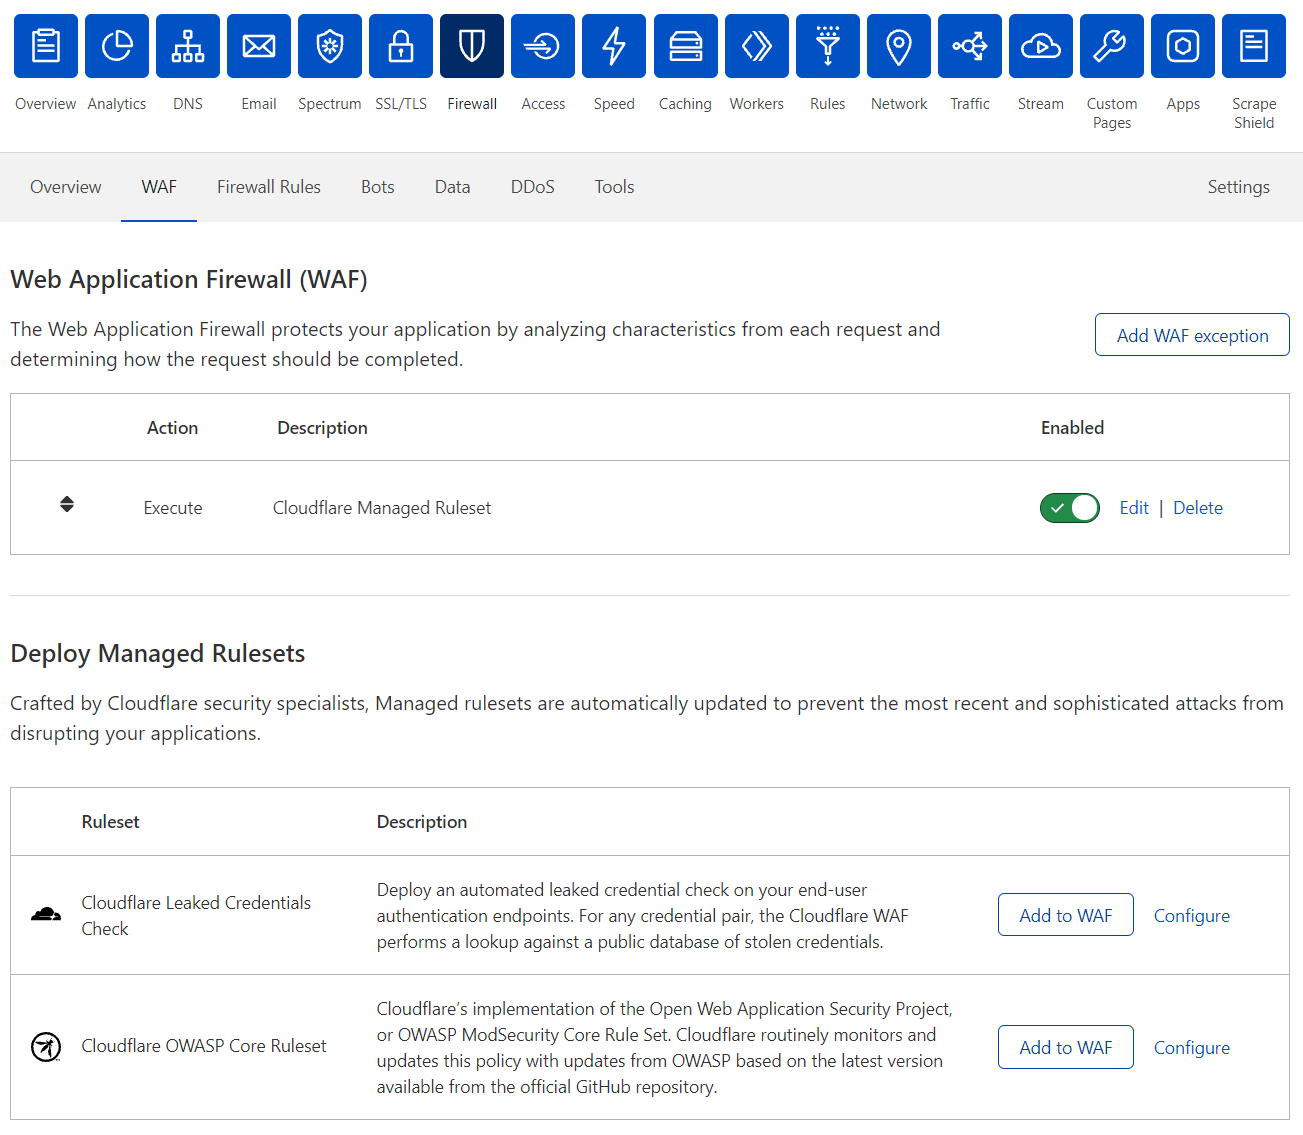
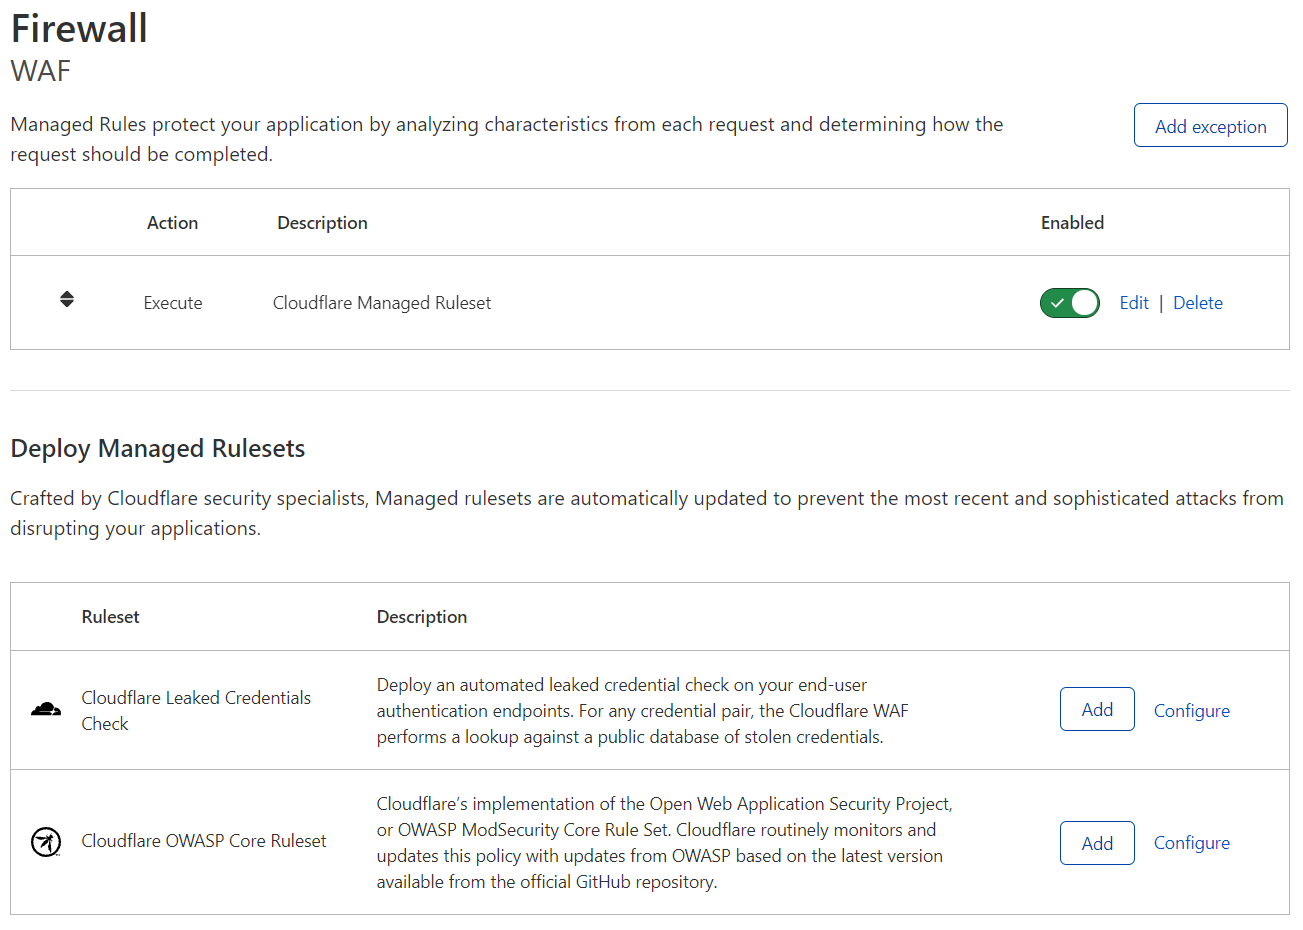
Update WAF dashboard instructions

diff --git a/content/waf/managed-rulesets/deploy-zone-dashboard.md b/content/waf/managed-rulesets/deploy-zone-dashboard.md
@@ -14,13 +14,13 @@ You can enable and configure Managed Rulesets for a zone in the **WAF** tab of t
 
 ## Deploy a Managed Ruleset
 
-Under **Deploy Managed Rulesets**, click **Add to WAF** on the right of a Managed Ruleset to deploy the Managed Ruleset for the current zone.
+Under **Deploy Managed Rulesets**, click **Add** on the right of a Managed Ruleset to deploy the Managed Ruleset for the current zone.
 
-When you deploy a Managed Ruleset, the WAF adds an _Execute_ rule, displayed under **Web Application Firewall (WAF)**, that deploys the Managed Ruleset.
+When you deploy a Managed Ruleset, the WAF adds an _Execute_ rule, displayed under **WAF**, that deploys the Managed Ruleset.
 
 ## Enable or disable a Managed Ruleset
 
-Under **Web Application Firewall (WAF)**, click the **Enabled** toggle on the right of a Managed Ruleset to enable or disable it.
+Under **WAF**, click the **Enabled** toggle on the right of a Managed Ruleset to enable or disable it.
 
 ## Configure a Managed Ruleset
 
@@ -45,7 +45,7 @@ To configure rule field values for all the rules in a Managed Ruleset:
 
 2. Go to **Firewall** > **WAF**.
 
-3. Under **Web Application Firewall (WAF)** and on the right of the _Execute_ rule that deploys the Managed Ruleset you want to configure, click **Edit**.
+3. Under **WAF** and on the right of the _Execute_ rule that deploys the Managed Ruleset you want to configure, click **Edit**.
 
 4. Under **Ruleset configuration**, set one or more rule fields from the available values in the drop-down lists.
 
@@ -67,7 +67,7 @@ To view the rules of a Managed Ruleset:
 
 2. Go to **Firewall** > **WAF**.
 
-3. Under **Web Application Firewall (WAF)** and on the right of the _Execute_ rule that deploys the Managed Ruleset you want to browse, click **Edit**.
+3. Under **WAF** and on the right of the _Execute_ rule that deploys the Managed Ruleset you want to browse, click **Edit**.
 
 4. Click **Browse rules**.
 

diff --git a/content/waf/managed-rulesets/waf-exceptions/define-dashboard.md b/content/waf/managed-rulesets/waf-exceptions/define-dashboard.md
@@ -6,21 +6,21 @@ weight: 2
 
 # Define WAF exceptions in the dashboard
 
-1.  Log in to the [Cloudflare dashboard](https://dash.cloudflare.com), and select your account and website.
+1. Log in to the [Cloudflare dashboard](https://dash.cloudflare.com), and select your account and website.
 
-2.  Go to **Firewall** > **WAF**.
+2. Go to **Firewall** > **WAF**.
 
-3.  Click **Add WAF exception**.
+3. Under **WAF**, click **Add exception**.
 
-4.  Enter a name for the exception.
+4. Enter a name for the exception.
 
     ![Create WAF exception page](/waf/static/waf-exception-create.png)
 
-5.  In **When incoming requests match**, specify a filter expression that defines the conditions for applying the WAF exception. The filter expression uses the [Rules language](/ruleset-engine/rules-language).
+5. In **When incoming requests match**, specify a filter expression that defines the conditions for applying the WAF exception. The filter expression uses the [Rules language](/ruleset-engine/rules-language).
 
-6.  In **Then**, select the [WAF exception type](/waf/managed-rulesets/waf-exceptions/#types-of-waf-exceptions) that determines which rules to skip:
+6. In **Then**, select the [WAF exception type](/waf/managed-rulesets/waf-exceptions/#types-of-waf-exceptions) that determines which rules to skip:
 
     - _Skip all remaining rules_ — Skips all remaining rules of WAF Managed Rulesets.
     - _Skip specific rules from a Managed Ruleset_ — Click **Select rules** to select the specific rules to skip. Learn more about [searching and selecting Managed Ruleset rules](/waf/managed-rulesets/deploy-zone-dashboard/#configure-rules-in-bulk-in-a-managed-ruleset).
 
-7.  To save and deploy your WAF exception, click **Deploy**. If you are not ready to deploy your exception, click **Save as Draft**.
+7. To save and deploy your WAF exception, click **Deploy**. If you are not ready to deploy your exception, click **Save as Draft**.

diff --git a/content/waf/managed-rulesets/payload-logging/configure.md b/content/waf/managed-rulesets/payload-logging/configure.md
@@ -14,7 +14,7 @@ Configure payload logging for a ruleset in the ruleset configuration page.
 
     ![Displays the content of the WAF tab in the Firewall app](/waf/static/waf-managed-rules-tab.png)
 
-2.  To configure payload logging for a ruleset you had already deployed in the WAF, click **Edit** next to the Managed Ruleset name under **Web Application Firewall (WAF)**.
+2.  To configure payload logging for a ruleset you had already deployed in the WAF, click **Edit** next to the Managed Ruleset name under **WAF**.
 
     To deploy a Managed Ruleset and configure payload logging, click **Configure** next to the Managed Ruleset under **Deploy Managed Rulesets**.
 
